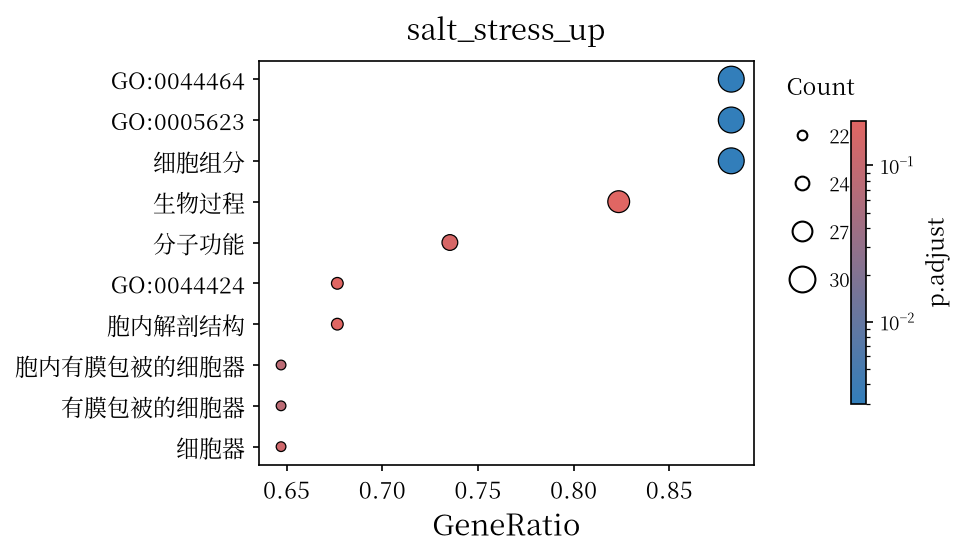
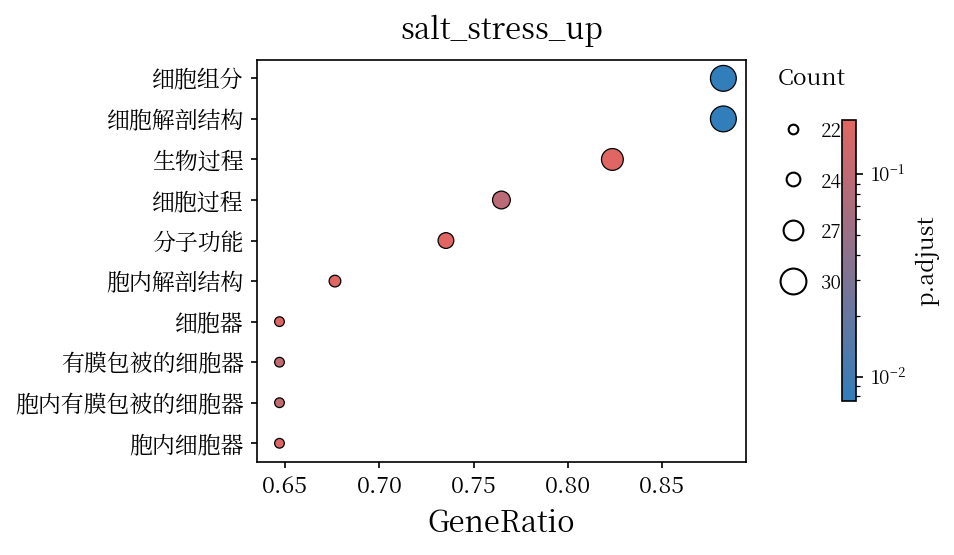
turn on Chinese term names by default
The Chinese table ships with the package, so asking for it with --desc
on every run made no sense. Every GO run now carries a name_zh column
and plots label terms in Chinese; --no-name-zh gives English-only
output. --desc turns into what it should have been all along: a way to
extend the names to ids neither the OBO nor the Chinese table covers
(KEGG, Pfam), or to override individual entries. A go_zh.tsv in the
working directory wins over the packaged copy.

Regenerated the demo images with the current renderer (they predate
the label-layout fixes).

diff --git a/src/qenrich/_cli.py b/src/qenrich/_cli.py
@@ -171,16 +171,24 @@ def cmd_enrich(args) -> int:
         sets, numeric, net = strip_suffix(sets, numeric, net)
         print("[qenrich] stripped .N version suffixes from gene ids")
 
-    # name resolvers: English comes from the OBO (bundled unless --no-obo);
-    # --desc only adds names for ids the OBO does not cover (KEGG, Pfam) and the
-    # Chinese column. go_zh.tsv is never picked up implicitly.
+    # name resolvers. English: the OBO is authoritative for GO ids; --desc col 2
+    # fills the rest (KEGG, Pfam). Chinese: the bundled go_zh.tsv is on by default
+    # (--no-name-zh drops it); --desc col 3 extends or overrides it.
+    en_map: dict[str, str] = {}
+    zh_map: dict[str, str] = {}
     names_df = args._names_df
-    en_map, zh_map = {}, {}
-    if names_df is not None:
-        if names_df.shape[1] >= 2:
-            en_map = dict(zip(names_df.iloc[:, 0], names_df.iloc[:, 1].fillna("")))
-        if names_df.shape[1] >= 3:
-            zh_map = dict(zip(names_df.iloc[:, 0], names_df.iloc[:, 2].fillna("")))
+    if names_df is not None and names_df.shape[1] >= 2:
+        en_map = dict(zip(names_df.iloc[:, 0], names_df.iloc[:, 1].fillna("")))
+    if not getattr(args, "no_name_zh", False):
+        desc_path = getattr(args, "_desc_path", None)
+        desc_is_go_zh = bool(desc_path) and Path(desc_path).name.startswith("go_zh.tsv")
+        if not desc_is_go_zh:
+            zh_src = _bundled_go_zh()
+            if zh_src:
+                zdf = read_names(zh_src)
+                zh_map = dict(zip(zdf.iloc[:, 0], zdf.iloc[:, 2].fillna("")))
+        if names_df is not None and names_df.shape[1] >= 3:
+            zh_map.update(dict(zip(names_df.iloc[:, 0], names_df.iloc[:, 2].fillna(""))))
 
     def en_of(term: str) -> str:
         # the OBO is the authority for GO ids; --desc only fills the gaps (KEGG, Pfam)
@@ -286,6 +294,18 @@ def cmd_parse(args) -> int:
     return 0
 
 
+def _bundled_go_zh() -> str | None:
+    """The Chinese name table: cwd copy, repo-root copy, then the packaged one."""
+    here = Path(__file__).resolve().parent
+    root = here.parent.parent
+    for cand in (Path.cwd() / "go_zh.tsv",
+                 root / "go_zh.tsv",
+                 here / "data" / "go_zh.tsv.gz"):
+        if cand.is_file():
+            return str(cand)
+    return None
+
+
 def _resolve_desc(path: str) -> str:
     """--desc given by bare name (e.g. go_zh.tsv): fall back to the packaged copy."""
     p = Path(path)
@@ -321,9 +341,10 @@ def main(argv: list[str] | None = None) -> int:
                     "(default: the go-basic.obo bundled in data/)")
     ep.add_argument("--no-obo", action="store_true",
                     help="skip the OBO: no DAG propagation, term ids instead of names")
-    ep.add_argument("--desc", help="id->names TSV: col 2 English, col 3 Chinese "
-                    "(e.g. go_zh.tsv); supplements names the OBO lacks")
-    ep.add_argument("--no-name-zh", action="store_true", help="omit the Chinese name column from output (English name stays)")
+    ep.add_argument("--desc", help="extra id->names TSV (col 2 English, col 3 Chinese); "
+                    "extends the built-in Chinese table for ids like KEGG/Pfam")
+    ep.add_argument("--no-name-zh", action="store_true",
+                    help="drop the Chinese names (column and plot labels); English stays")
     ep.add_argument("--tmin", type=int, default=5, help="drop terms with fewer targets (default 5)")
     ep.add_argument("--bg", help="background gene list file (default: all annotated genes)")
     ep.add_argument("--padj", type=float, default=0.05,
@@ -336,7 +357,8 @@ def main(argv: list[str] | None = None) -> int:
     ep.add_argument("--format", choices=FORMATS, help="force input format")
     ep.add_argument("--no-header", action="store_true", help="gene list has no header row")
     ep.add_argument("--labels", choices=["name", "id"], default="name",
-                    help="plot label style: English term name (default; from --obo/--desc, else term id) or bare term id")
+                    help="plot label style: term name (Chinese when available, else English) "
+                         "or bare term id")
     ep.add_argument("--plot", action="store_true", help="write barplot/dotplot/heatmap PNGs")
     ep.add_argument("--style", choices=["matplotlib", "enrichplot"], default="matplotlib",
                     help="plot style: dc.pl matplotlib (default) or enrichplot (GeneRatio dotplot, Count barplot, heatplot)")
@@ -347,7 +369,8 @@ def main(argv: list[str] | None = None) -> int:
     if args.cmd is None and (not args.i or not args.genelist):
         ap.error("enrichment requires -i INPUT and --genelist FILE (or use the 'parse' subcommand)")
     try:
-        args._names_df = read_names(_resolve_desc(args.desc)) if getattr(args, "desc", None) else None
+        args._desc_path = _resolve_desc(args.desc) if getattr(args, "desc", None) else None
+        args._names_df = read_names(args._desc_path) if args._desc_path else None
         return args.func(args)
     except (ValueError, KeyError, FileNotFoundError, AssertionError, OSError) as e:
         print(f"error: {e}", file=sys.stderr)

diff --git a/tests/test_qenrich.py b/tests/test_qenrich.py
@@ -1042,14 +1042,15 @@ def test_en_default_uses_bundled_obo(tmp_path, capsys):
         assert rc == 0
         out = capsys.readouterr().out
         assert "propagated GO DAG (bundled OBO" in out
-        assert cap["lab"] == "response to stress"  # GO:0006950, from the OBO
+        # label_of prefers Chinese: "response to stress" (OBO) + 对胁迫的响应 (built-in)
+        assert cap["lab"] == "对胁迫的响应"
     finally:
         _cli.plot_heatmap = orig_hm
 
 
-def test_no_obo_leaves_ids_as_labels(tmp_path, capsys):
-    """--no-obo means no ontology: no propagation and no term names, just ids.
-    go_zh.tsv is never picked up implicitly (--desc is the only way in)."""
+def test_no_obo_with_no_name_zh_leaves_ids(tmp_path, capsys):
+    """--no-obo skips the DAG; the Chinese table still names terms, so only
+    --no-name-zh on top leaves bare ids."""
     from qenrich import _cli
 
     cap = {}
@@ -1066,8 +1067,12 @@ def test_no_obo_leaves_ids_as_labels(tmp_path, capsys):
         assert rc == 0
         out = capsys.readouterr().out
         assert "propagated GO DAG" not in out
-        assert "go_zh.tsv" not in out  # no implicit name source
-        assert cap["lab"] == "GO:0006950"  # bare id
+        assert cap["lab"] == "对胁迫的响应"  # Chinese table works without the OBO
+        rc = _cli.main(["-i", str(d / "net.tsv"), "--genelist", str(d / "gl.txt"),
+                        "--tmin", "1", "--no-obo", "--no-name-zh",
+                        "-o", str(d / "out2"), "--plot"])
+        assert rc == 0
+        assert cap["lab"] == "GO:0006950"  # both opt-outs: bare id
     finally:
         _cli.plot_heatmap = orig_hm
 

diff --git a/README.md b/README.md
@@ -72,7 +72,7 @@ Glyma.01G000200,1.8
 Glyma.01G000300,-0.5
 ```
 
-Each set is written to `<set>_enrichment.tsv` (ORA) or `<set>_gsea.tsv` (GSEA) and merged into `summary.tsv`, ordered by `padj`. The English `name` comes from the OBO; `--desc` adds names for ids the OBO does not cover and the Chinese column (`--no-name-zh` drops the Chinese one):
+Each set is written to `<set>_enrichment.tsv` (ORA) or `<set>_gsea.tsv` (GSEA) and merged into `summary.tsv`, ordered by `padj`. English `name` comes from the bundled OBO and `name_zh` from the built-in Chinese table — both automatic (`--no-name-zh` drops the Chinese column); `--desc` adds names for ids neither covers (KEGG, Pfam, InterPro):
 
 ```
 term          name                          name_zh          term_size  overlap  genes           pvalue    log_or  padj
@@ -91,11 +91,11 @@ Labels follow `--labels {name,id}` (default `name`).
 
 ## Chinese labels
 
-`go_zh.tsv` (38 092 rows) is an LLM translation of every go-basic.obo term name, not human-reviewed — verify before citing. It ships in the repo root and (gzipped) inside the package, so `--desc go_zh.tsv` works from any directory; pass it to add Chinese labels:
+Built in: every run carries a `name_zh` column and plots label terms in Chinese. The table (`go_zh.tsv`, 38 092 rows) is an LLM translation of every go-basic.obo term name, not human-reviewed — verify before citing. It ships in the repo root and (gzipped) inside the package; a `go_zh.tsv` in the working directory wins over the packaged copy, and `--no-name-zh` gives you English-only output. `--desc` extends the table to other id spaces (KEGG, Pfam) or overrides entries:
 
 ```bash
 qenrich -i emapper.annotations.tsv --genelist gene_list.txt \
-        --desc go_zh.tsv --plot --style enrichplot
+        --plot --style enrichplot          # Chinese labels, no flags needed
 ```
 
 <img src="data/png/enrichplot_zh.png" width="500" alt="Chinese dotplot">

diff --git a/README.zh.md b/README.zh.md
@@ -72,7 +72,7 @@ Glyma.01G000200,1.8
 Glyma.01G000300,-0.5
 ```
 
-每个集合写入 `<set>_enrichment.tsv`（ORA）或 `<set>_gsea.tsv`（GSEA），合并为 `summary.tsv`。英文 `name` 来自 OBO；`--desc` 用于补充 OBO 未覆盖的 id（如 KEGG/Pfam）并提供中文列（`--no-name-zh` 去掉中文列）：
+每个集合写入 `<set>_enrichment.tsv`（ORA）或 `<set>_gsea.tsv`（GSEA），合并为 `summary.tsv`。英文 `name` 来自内置 OBO，`name_zh` 来自内置中文表，两者自动生效（`--no-name-zh` 去掉中文列）；`--desc` 用于补充两者都没有的 id（KEGG、Pfam、InterPro）：
 
 ```
 term          name                          name_zh          term_size  overlap  genes           pvalue    log_or  padj
@@ -91,11 +91,11 @@ GO:0048519    negative regulation of bio...  生物过程的负调控   17      
 
 ## 中文标签
 
-`go_zh.tsv`（38,092 行）是 go-basic.obo 全部术语名的 LLM 翻译，未经人工校对，引用前请核对。该文件在仓库根目录，包内也带一份（gzip 压缩），因此 `--desc go_zh.tsv` 在任何目录都能用；加上它即可得到中文标签：
+中文标签内置：每次运行自动带 `name_zh` 列，图上直接用中文标注。`go_zh.tsv`（38,092 行）是 go-basic.obo 全部术语名的 LLM 翻译，未经人工校对，引用前请核对。该文件在仓库根目录、包内也有一份（gzip 压缩），工作目录下的同名文件优先于包内副本；`--no-name-zh` 切换为纯英文。`--desc` 可把名称表扩展到其他 id 空间（KEGG、Pfam）或覆盖个别条目：
 
 ```bash
 qenrich -i emapper.annotations.tsv --genelist gene_list.txt \
-        --desc go_zh.tsv --plot --style enrichplot
+        --plot --style enrichplot          # 中文标签，无需任何参数
 ```
 
 <img src="data/png/enrichplot_zh.png" width="500" alt="中文点图">
